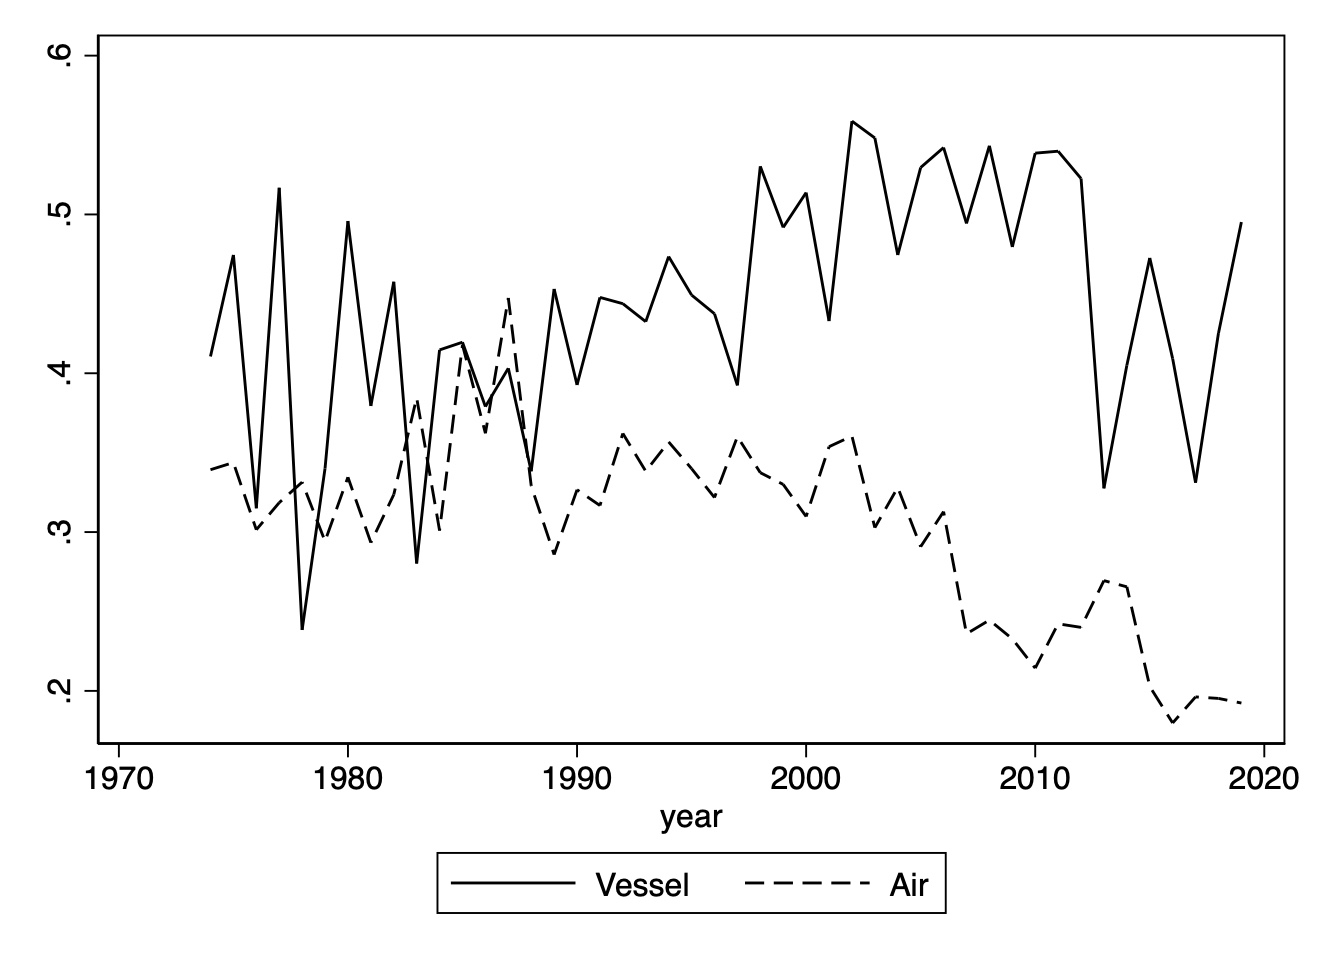
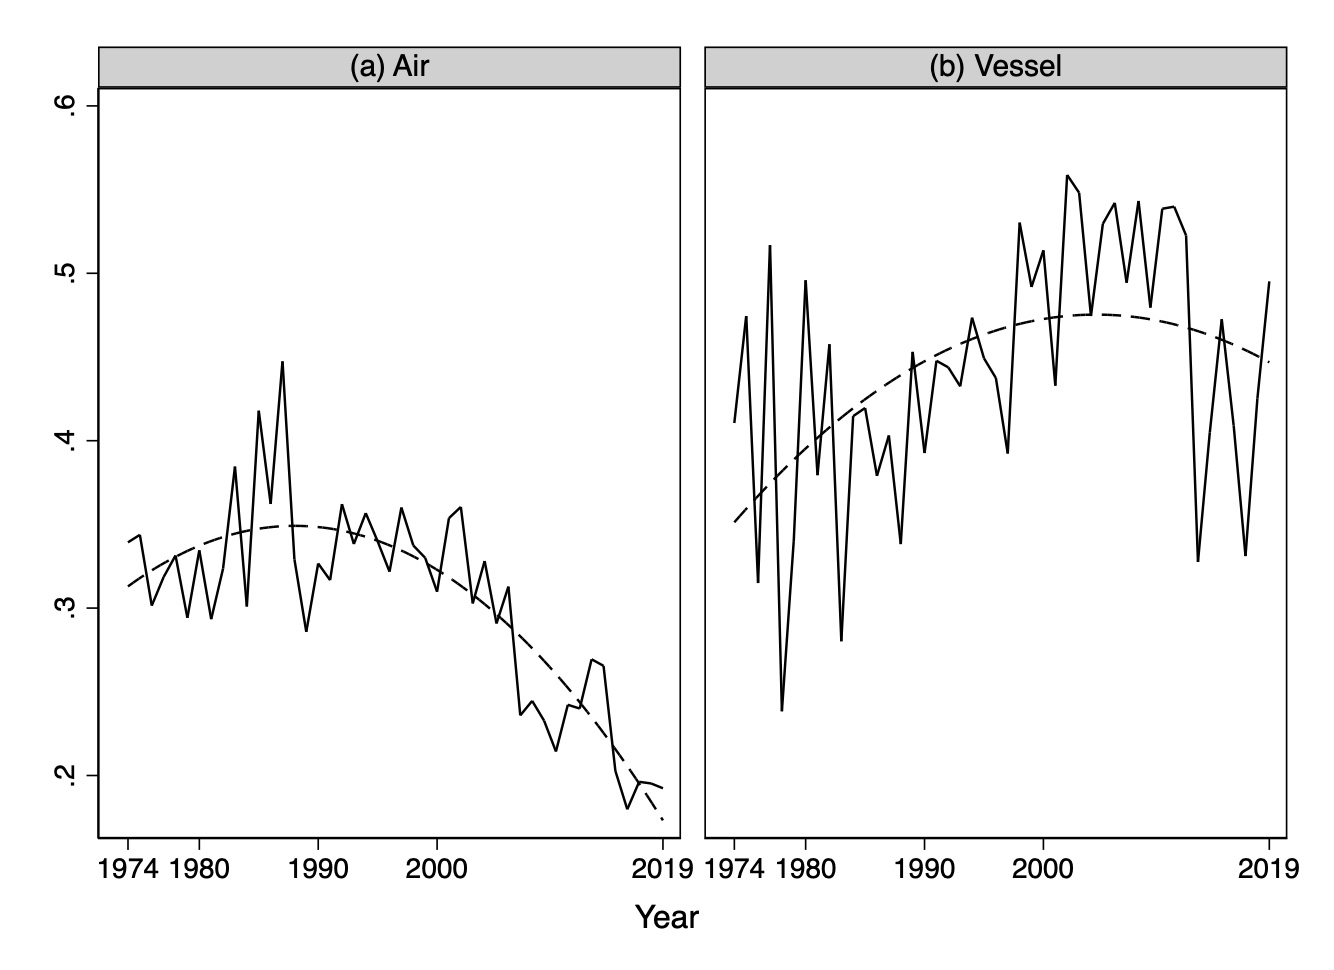
Révision légère figure 1 et 2. Sortie des valeurs ...
Révision légère figure 1 et 2. Sortie des valeurs prédites total TC et beta

diff --git a/redaction/JEGeo/revision_JEGeo/revised_article/DHP_JoEG_rev1.tex b/redaction/JEGeo/revision_JEGeo/revised_article/DHP_JoEG_rev1.tex
@@ -490,6 +490,17 @@ Notes: We use the yearly values of the estimated transport cost components avera
 \end{center}
 \end{figure}
 
+%%Sur le trend :      +------------------------------+
+%| trend_~t         mode   year |
+%|------------------------------|
+%1. | 3.652468   (b) Vessel   2019 |
+%46. | 8.546226   (b) Vessel   1974 |
+%47. | 2.488636      (a) Air   2019 |
+%92. | 6.289694      (a) Air   1974 |
+%+------------------------------+
+
+
+
 As shown in Figure \ref{fig:Trends_in_TC}, both air and vessel shipping exhibit a downward trend in overall transport costs since 1974, by -2.1\% per year for mean air transport costs and -1.9\% for mean vessel transport costs, implying a 60\% decrease in both air and vessel over the period.\footnote{One may be puzzled by the high magnitude of estimates for the beginning of the period (until 1980 approximately) for vessel transport.
 \cite{hummels2007} finds similar outcomes on tramp prices indexes, and suggests the oil shock as a likely culprit, in a context where technological progress was quicker in aviation than in vessel, allowing a better dampening of oil shocks on air freight rates.
 In a related manner, one may worry that the strong decrease in transport costs documented in Figure \ref{fig:Trends_in_TC} springs from high oil-shock-related transport costs in 1974. However, computing the time trends from 1980 does not dramatically change the picture.
@@ -510,6 +521,19 @@ Note:The share of additive costs $\beta$ is reported on the $y-$axis. Each yearl
 \end{minipage}
 \end{center}
 \end{figure}
+
+
+%Le beta sur le trend quadratic (  reg ln_meanshareA year year2 )
+%
+%   +------------------------------+
+%| trend_~a         mode   year |
+%|------------------------------|
+%1. |  .438216   (b) Vessel   2019 |
+%46. | .3468959   (b) Vessel   1974 |
+%47. | .2301836      (a) Air   2019 |
+%92. | .3839365      (a) Air   1974 |
+%+------------------------------+
+%))
 
 
 In both transport modes, the additive component appears of sizable importance throughout the period.
